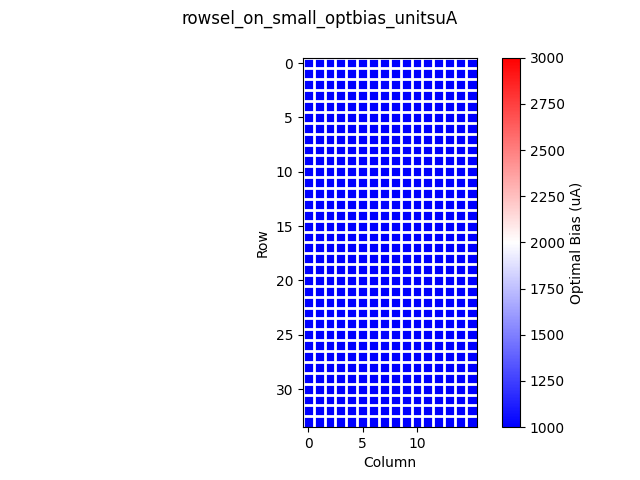
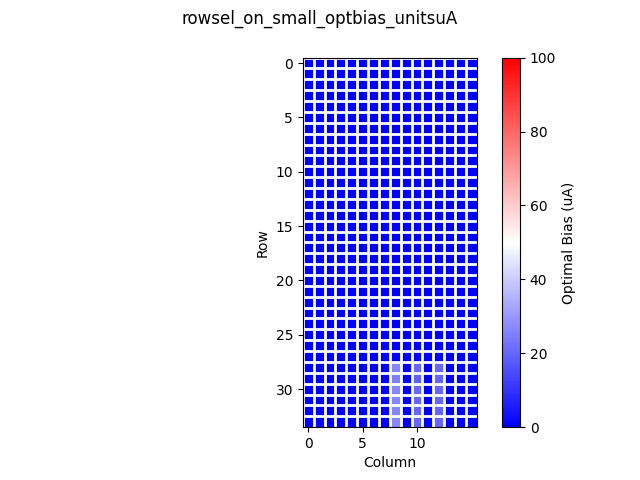
trying to speed up plotting

diff --git a/code/squid_analysis.py b/code/squid_analysis.py
@@ -91,6 +91,7 @@ def get_icmaxcolmod(ic_params_rson, ic_params_rsoff, manual_bias_idx=None):
 
 
 def initialize_grid_color_range():
+    # Will need adjustment based on the calibration of the particular system
     vmin_vmax_dict = {
         'DAC': {
             'vmin': {
@@ -100,42 +101,42 @@ def initialize_grid_color_range():
                 'Manually chosen Modulation': 0,
                 'Optimal Bias': 0,
                 'Crosstalk Bias Limit': 0,
-                'Optimal Bias - Crosstalk Bias Limit': 0,
-                'Ic,max - Ic,col': 0
+                'Optimal Bias - Crosstalk Bias Limit': -5000,
+                'Ic,max - Ic,col': -1000,
             },
             'vmax': {
-                'Ic,col': 100,
-                'Ic,max': 200,
-                'Optimal Modulation': 300,
-                'Manually chosen Modulation': 400,
-                'Optimal Bias': 500,
-                'Crosstalk Bias Limit': 600,
-                'Optimal Bias - Crosstalk Bias Limit': 700,
-                'Ic,max - Ic,col': 800
+                'Ic,col': 8000,
+                'Ic,max': 8000,
+                'Optimal Modulation': 2000,
+                'Manually chosen Modulation': 2000,
+                'Optimal Bias': 20000,
+                'Crosstalk Bias Limit': 20000,
+                'Optimal Bias - Crosstalk Bias Limit': 5000,
+                'Ic,max - Ic,col': 1000,
             }
         },
         'uA': {
             'vmin': {
-                'Ic,col': 0.1,
-                'Ic,max': 0.2,
-                'Optimal Modulation': 0.3,
-                'Manually chosen Modulation': 0.4,
-                'Optimal Bias': 0.5,
-                'Crosstalk Bias Limit': 0.6,
-                'Optimal Bias - Crosstalk Bias Limit': 0.7,
-                'Ic,max - Ic,col': 0.8
+                'Ic,col': 0,
+                'Ic,max': 0,
+                'Optimal Modulation': 0,
+                'Manually chosen Modulation': 0,
+                'Optimal Bias': 0,
+                'Crosstalk Bias Limit': 0,
+                'Optimal Bias - Crosstalk Bias Limit': -25,
+                'Ic,max - Ic,col': -5,
             },
             'vmax': {
-                'Ic,col': 10,
-                'Ic,max': 20,
-                'Optimal Modulation': 30,
-                'Manually chosen Modulation': 40,
-                'Optimal Bias': 50,
-                'Crosstalk Bias Limit': 60,
-                'Optimal Bias - Crosstalk Bias Limit': 70,
-                'Ic,max - Ic,col': 80
+                'Ic,col': 40,
+                'Ic,max': 40,
+                'Optimal Modulation': 10,
+                'Manually chosen Modulation': 10,
+                'Optimal Bias': 100,
+                'Crosstalk Bias Limit': 100,
+                'Optimal Bias - Crosstalk Bias Limit': 25,
+                'Ic,max - Ic,col': 5,
             }
-        }
+        },
     }
     return vmin_vmax_dict
 
@@ -275,8 +276,10 @@ def fill_all_ic_grids(all_grids, col, ic_params_rson_allrows,
 
     for row in ic_params_rson_allrows:
         ic_params_rson = ic_params_rson_allrows[row]
-        ic_params_rsoff = ic_params_rsoff_allrows[row]
-
+        if(ic_params_rsoff_allrows is not None):
+            ic_params_rsoff = ic_params_rsoff_allrows[row]
+        else:
+            ic_params_rsoff = None
         (ic_col, ic_min, ic_max, mod,
          optimal_bias, crosstalk_bias, manual_mod) = get_icmaxcolmod(
             ic_params_rson, ic_params_rsoff, manual_bias_idx=chosen_bias_idx)
@@ -375,7 +378,8 @@ def get_icparams_squid_column(col, sa_data, sa_runfile, cfg,
 
     rows = np.unique(sq1df_rson[rowname].tolist())
     ic_params_rson_allrows = {}
-    ic_params_rsoff_allrows = {}
+    if(sq1df_rsoff is None):
+        ic_params_rsoff_allrows = None
     for row in rows:
         sq1df_row = sq1df_col[sq1df_col[rowname] == row]
         if(sq1df_row.shape[0] < 5):
@@ -523,25 +527,30 @@ def ic_driver(sq1df_rson, sq1_runfile_rson, ctime=None,
               sq1df_off=None,  sq1_runfile_off=None,
               cols=range(0, 16), flip_signs=False, manually_chosen_biases=None,
               plot_all_rows=False, savedir='test_output',
+              # For unit conversion
               convert_units=False, cfg=None, sa_data=None, sa_runfile=None,
+              # Debug options
               verbose=False, show_plot=False):
     # TODO: make script auto generate pager
 
     # Some Options that can be changed
-    bias_choose_method = 'bias_current'
+
+    # bias_current, device_current, or naive
+    bias_choose_method = 'naive'
     mod_thresh = 20
     max_rows = None
 
     # Setting up output directories
     col_summary_name = 'col_summary'
     all_rows_name = 'all_rows'
+    grid_name = 'gridplots'
     savedir_cols = os.path.join(savedir, col_summary_name)
     while not os.path.exists(savedir_cols):
         os.makedirs(savedir_cols)
     savedir_rows = os.path.join(savedir, all_rows_name)
     while not os.path.exists(savedir_rows):
         os.makedirs(savedir_rows)
-    savedir_grids = os.path.join(savedir, 'gridplots')
+    savedir_grids = os.path.join(savedir, grid_name)
     while not os.path.exists(savedir_grids):
         os.makedirs(savedir_grids)
 
@@ -586,8 +595,13 @@ def ic_driver(sq1df_rson, sq1_runfile_rson, ctime=None,
                                       max_rows=max_rows, max_cols=max_cols)
         if(plot_all_rows):
             for row in ic_params_rson_allrows:
+                time1 = time.time()
                 ic_params_rson = ic_params_rson_allrows[row]
-                ic_params_rsoff = ic_params_rsoff_allrows[row]
+                if(ic_params_rsoff_allrows is not None):
+                    ic_params_rsoff = ic_params_rsoff_allrows[row]
+                else:
+                    ic_params_rsoff = None
+                print("reading: " + str(time1-time.time()))
                 fig, ax = pd.plot_icminmax(col, row, ic_params_rson,
                                            ic_params_rsoff=ic_params_rsoff,
                                            ctime=ctime, convert_units=convert_units,
@@ -595,7 +609,7 @@ def ic_driver(sq1df_rson, sq1_runfile_rson, ctime=None,
                                            savedir=savedir_rows,
                                            fig=fig, ax=ax,
                                            show_plot=show_plot)
-
+                print("total: " + str(time1-time.time()))
         print('Plotting Summary for col ' + str(col))
         fig, ax = pd.plot_icminmax_column(col, ic_params_rson_allrows,
                                           ic_params_rsoff_allrows=ic_params_rsoff_allrows,
@@ -735,6 +749,7 @@ def main():
         rows = np.unique(all_rows)
         sq1df_off = None
         sq1_runfile_off = None
+        plot_all_rows = False
         if(args.ctime_off is not None):
             sq1df_off, sq1_runfile_off = rd.get_sq1_tune_data(
                 args.ctime_off, fast_csv_reading=fast_csv_reading)
@@ -743,7 +758,7 @@ def main():
 
         output_dir = './output_data/'
         print('Done reading files, time elapsed (s):' + str(time1-time0))
-        for convert_units in [True, False]:
+        for convert_units in [False, True, ]:
             if(args.chosen_biases is not None):
                 manual_optbias_filepath = args.chosen_biases
                 col_bias_dict = rd.read_optimal_bias_data(
@@ -759,17 +774,11 @@ def main():
             savedir = os.path.join(output_dir, ctime, branch)
             while not os.path.exists(savedir):
                 os.makedirs(savedir)
+
             ic_driver(sq1df, sq1_runfile, ctime=ctime,
                       sq1df_off=sq1df_off,  sq1_runfile_off=sq1_runfile_off,
                       manually_chosen_biases=manually_chosen_biases,
-                      savedir=savedir,  plot_all_rows=True, flip_signs=flip_signs,
-                      convert_units=convert_units,
-                      cfg=cfg, sa_data=sa_data, sa_runfile=sa_runfile,
-                      verbose=args.verbose)
-            ic_driver(sq1df, sq1_runfile, ctime=ctime,
-                      sq1df_off=sq1df_off,  sq1_runfile_off=sq1_runfile_off,
-                      manually_chosen_biases=manually_chosen_biases,
-                      savedir=savedir,  plot_all_rows=False, flip_signs=flip_signs,
+                      savedir=savedir,  plot_all_rows=plot_all_rows, flip_signs=flip_signs,
                       convert_units=convert_units, cfg=cfg, sa_data=sa_data, sa_runfile=sa_runfile,
                       verbose=args.verbose)
 

diff --git a/code/plot_data.py b/code/plot_data.py
@@ -5,6 +5,7 @@ Handles all the plotting done in Squid tuning analysis
 
 from matplotlib.ticker import AutoMinorLocator
 from collections import OrderedDict
+import time
 import os
 import numpy as np
 import matplotlib.pyplot as plt
@@ -363,16 +364,17 @@ def plot_icminmax(col, row, ic_params_rson, ic_params_rsoff=None,
     SQ1_TOTAL_BIAS_DAC_LABEL = 'SQ1 Total Bias Current (DAC)'
     TITLE = f'{ctime} Ic Check Column {col} Row {row}'
 
+    # TODO: figure out a better way to determine best scale
     if convert_units:
         UNAME = 'uA'
         YLABEL = SSA_INPUT_CURRENT_LABEL
         XLABEL = SQ1_TOTAL_BIAS_CURRENT_LABEL
-        YLIM = (0, 40)
+        YLIM = None  # (0, 40)
     else:
         UNAME = 'DAC'
         YLABEL = SSA_FB_LABEL
         XLABEL = SQ1_TOTAL_BIAS_DAC_LABEL
-        YLIM = (0, 10000)
+        YLIM = None  # (0, 10000)
 
     if fig is None:
         fig, ax = plt.subplots(figsize=FIGSIZE)
@@ -399,16 +401,16 @@ def plot_icminmax(col, row, ic_params_rson, ic_params_rsoff=None,
     for lh in leg.legendHandles:
         lh.set_alpha(1)
     ax.xaxis.set_minor_locator(AutoMinorLocator(5))
-    fig.tight_layout()
-
+    # significantly increases plot time to remove this
+    # fig.tight_layout()
     savename = f'{ctime}_icminmax_units{UNAME}_col{col}_row{row}.png'
     savename = os.path.join(savedir, savename)
-    print('saving to:', savename)
+    print('Saving to:', savename)
     fig.savefig(savename)
-
+    print("Done")
     if show_plot:
         plt.show()
-    ax.cla()
+    ax.clear()
     return fig, ax
 
 
@@ -491,16 +493,18 @@ def plot_icminmax_column(col, ic_params_rson_allrows, ic_params_rsoff_allrows=No
     TITLE = f'{ctime} Ic Check Column {col} Summary'
     if fig is None:
         fig, ax = plt.subplots(figsize=FIGSIZE)
+
+    # TODO: figure out a better way to determine best scale
     if convert_units:
         UNAME = 'uA'
         YLABEL = SSA_INPUT_CURRENT_LABEL
         XLABEL = SQ1_TOTAL_BIAS_CURRENT_LABEL
-        YLIM = (0, 40)
+        YLIM = None  # (0, 40)
     else:
         UNAME = 'DAC'
         YLABEL = SSA_FB_LABEL
         XLABEL = SQ1_TOTAL_BIAS_DAC_LABEL
-        YLIM = (0, 10000)
+        YLIM = None  # (0, 10000)
 
     for row in ic_params_rson_allrows:
         ic_params_rson = ic_params_rson_allrows[row]
